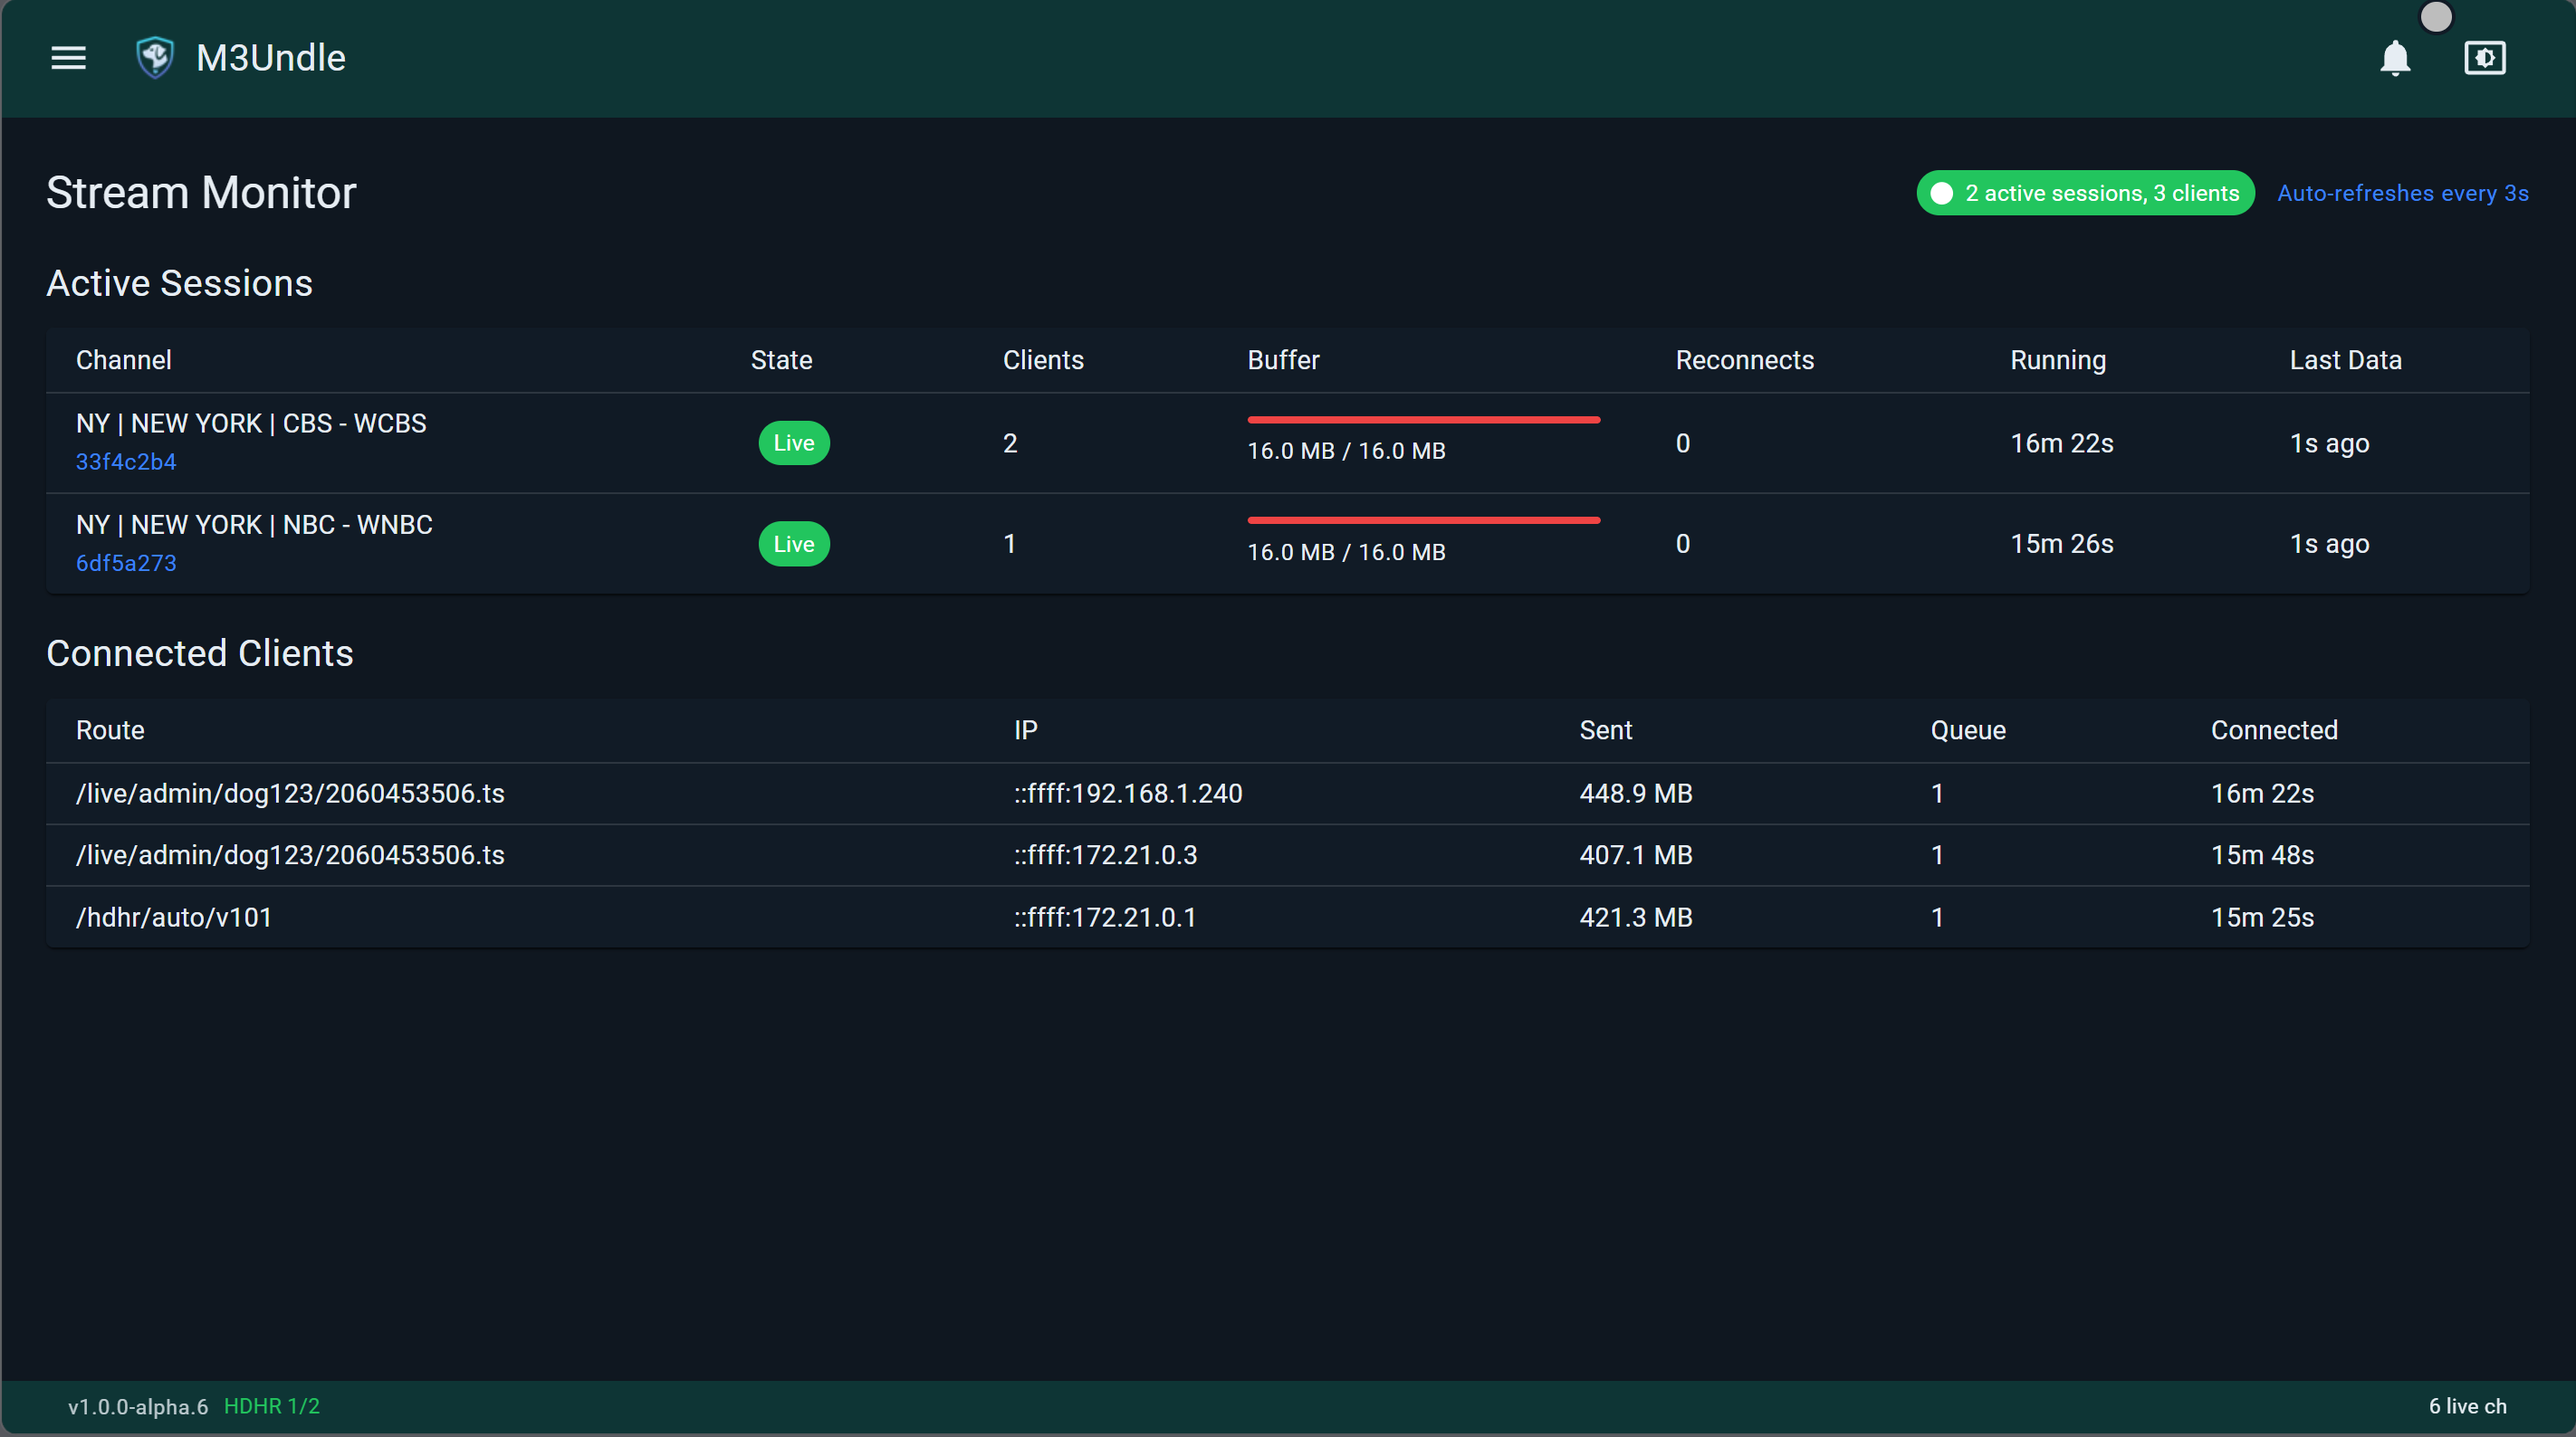
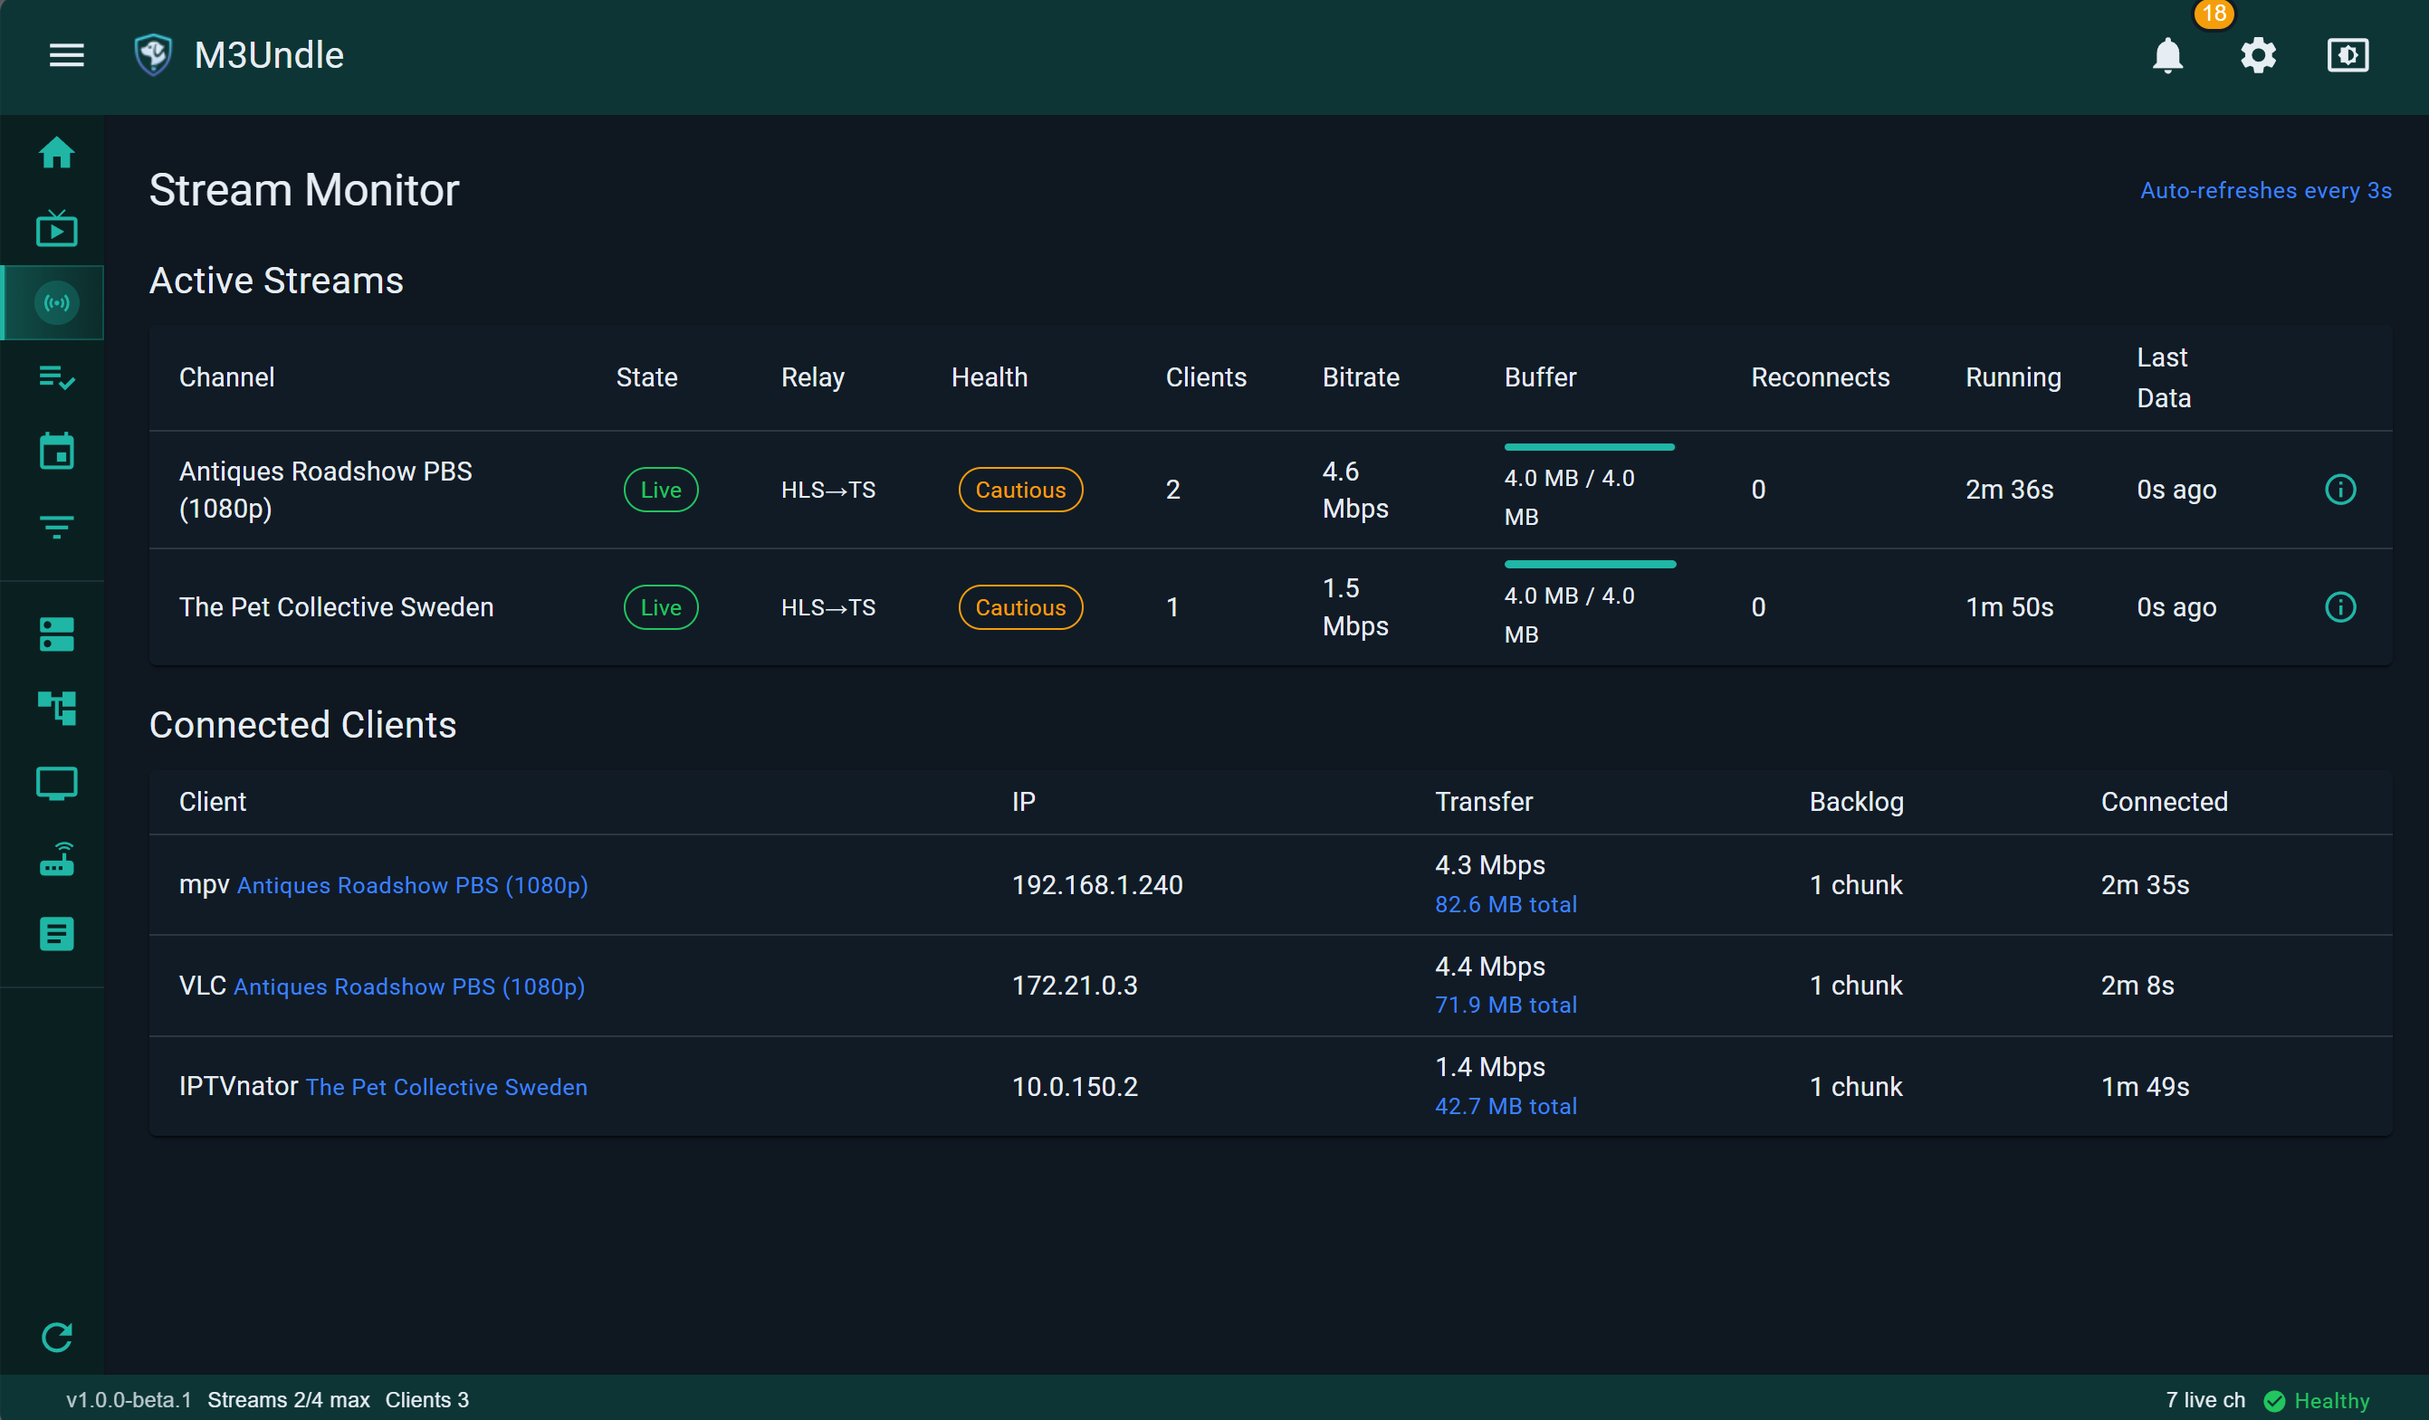
Updated screenshots for beta.1

diff --git a/README.md b/README.md
@@ -28,7 +28,7 @@ Works with clients such as NextPVR, Jellyfin, IPTVnator, IPTV Smarters, and othe
 > [!IMPORTANT]
 > **Beta Status**
 >
-> M3Undle has completed all alpha milestones and is entering beta. The core workflow is fully implemented: streaming is hardened with shared-stream support, adaptive stream health tracking, and relay policy for unstable providers. Observability, Xtream detection, HDHomeRun integration, and interface polish are all in place.
+> M3Undle has completed all alpha milestones and is now in beta. The core workflow is fully implemented: streaming is hardened with shared-stream support, adaptive stream health tracking, and relay policy for unstable providers. Observability, Xtream detection, HDHomeRun integration, and interface polish are all in place.
 >
 > Beta focuses on broader DVR client validation, documentation, and final hardening before a stable release. It is suitable for real LAN use, but expect provider- and client-specific edge cases to surface during testing.
 
@@ -103,6 +103,10 @@ Start by reducing the provider catalog to something your clients should actually
 
 Instead of making every client parse the full provider list, M3Undle publishes only the lineup you built.
 
+The provider dialog supports URL playlists, local files, Xtream Codes, imported configuration, optional XMLTV guide URLs, content-type toggles, provider stream limits, and profile association.
+
+![Add Provider dialog showing URL playlist setup, optional XMLTV guide URL, content-type toggles, stream limit controls, and automatic profile association](docs/images/readme-add-provider.png)
+
 ![Channel Mapping page with group filter applied, showing mapped and unmapped groups with channel counts](docs/images/readme-filter.png)
 
 ![Custom Locals group with channel search showing selected local channels with assigned numbers](docs/images/readme-channel-search.png)
@@ -131,9 +135,19 @@ Proxy live streams through M3Undle, hide provider credentials from clients, shar
 
 ![Stream Monitor showing two active sessions with buffer usage and three connected clients sharing streams](docs/images/readme-streams.png)
 
+The stream health panel highlights unstable channels over a 24-hour observation window. A channel can remain cautious when recent upstream failures have not yet been offset by recoveries, and it can relax back toward stable once clean watch time accumulates.
+
+![Stream health panel for Antiques Roadshow PBS showing a cautious channel with four upstream failures, no recoveries, and an improving trend](docs/images/readme-stream-health1.png)
+
+![Stream health panel for The Pet Collective Sweden showing a cautious channel with two upstream failures, accumulated clean watch time, and a recovery toward stable](docs/images/readme-stream-health2.png)
+
 ### Observability
 
 Expose Prometheus-compatible metrics, liveness/readiness probes, and authenticated diagnostics APIs for monitoring provider refreshes, streams, lineup publishing, EPG status, and HDHomeRun activity.
+
+The dashboard surfaces copy-ready client endpoints, current published state, and system events such as startup and migration activity without requiring log access for routine checks.
+
+![Dashboard with system events drawer open, showing published profile status, M3U and XMLTV endpoint URLs, HDHomeRun details, and recent startup events](docs/images/readme-events.png)
 
 ### Profiles and publishing
 
@@ -257,7 +271,7 @@ After v1.0.0, planned work moves toward more advanced provider handling:
 
 ## Support
 
-M3Undle is built as an open-source project and is currently focused on getting through alpha, beta, and v1.0.0.
+M3Undle is built as an open-source project and is currently focused on getting through beta, release candidate validation, and v1.0.0.
 
 If you find it useful and want to support the work:
 
@@ -286,7 +300,7 @@ Before submitting a pull request:
 - avoid mixing formatting-only changes with functional changes
 - describe the client, provider type, and endpoint path involved if the change affects playback or compatibility
 
-More detailed contributor docs will be added as the project moves toward beta.
+More detailed contributor docs will be added during beta.
 
 ## Disclaimer
 
